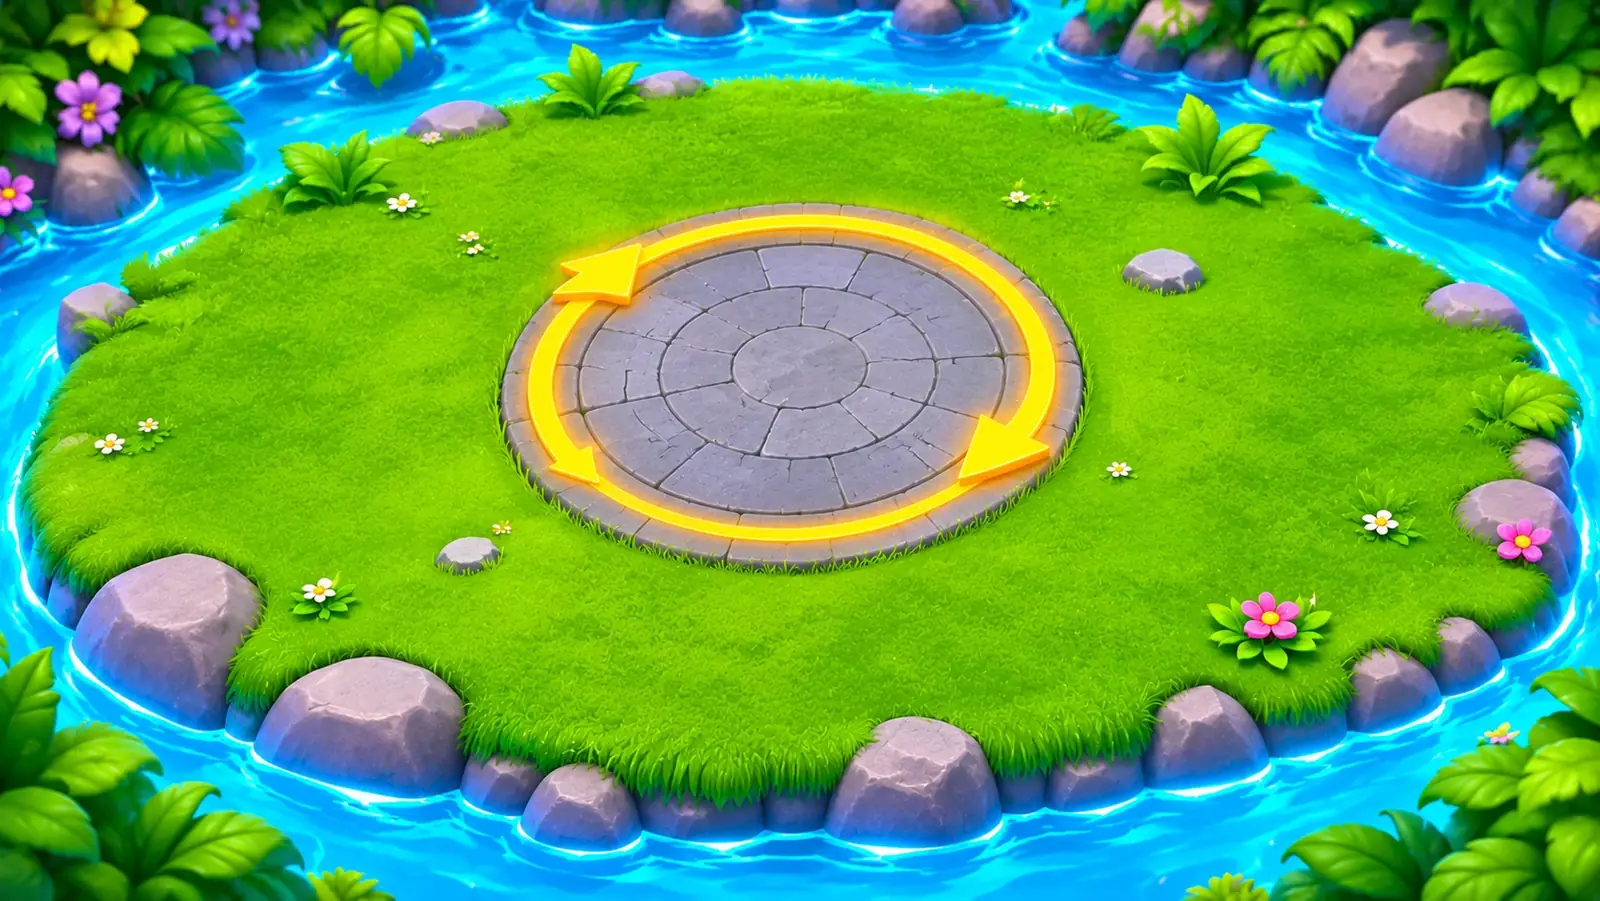
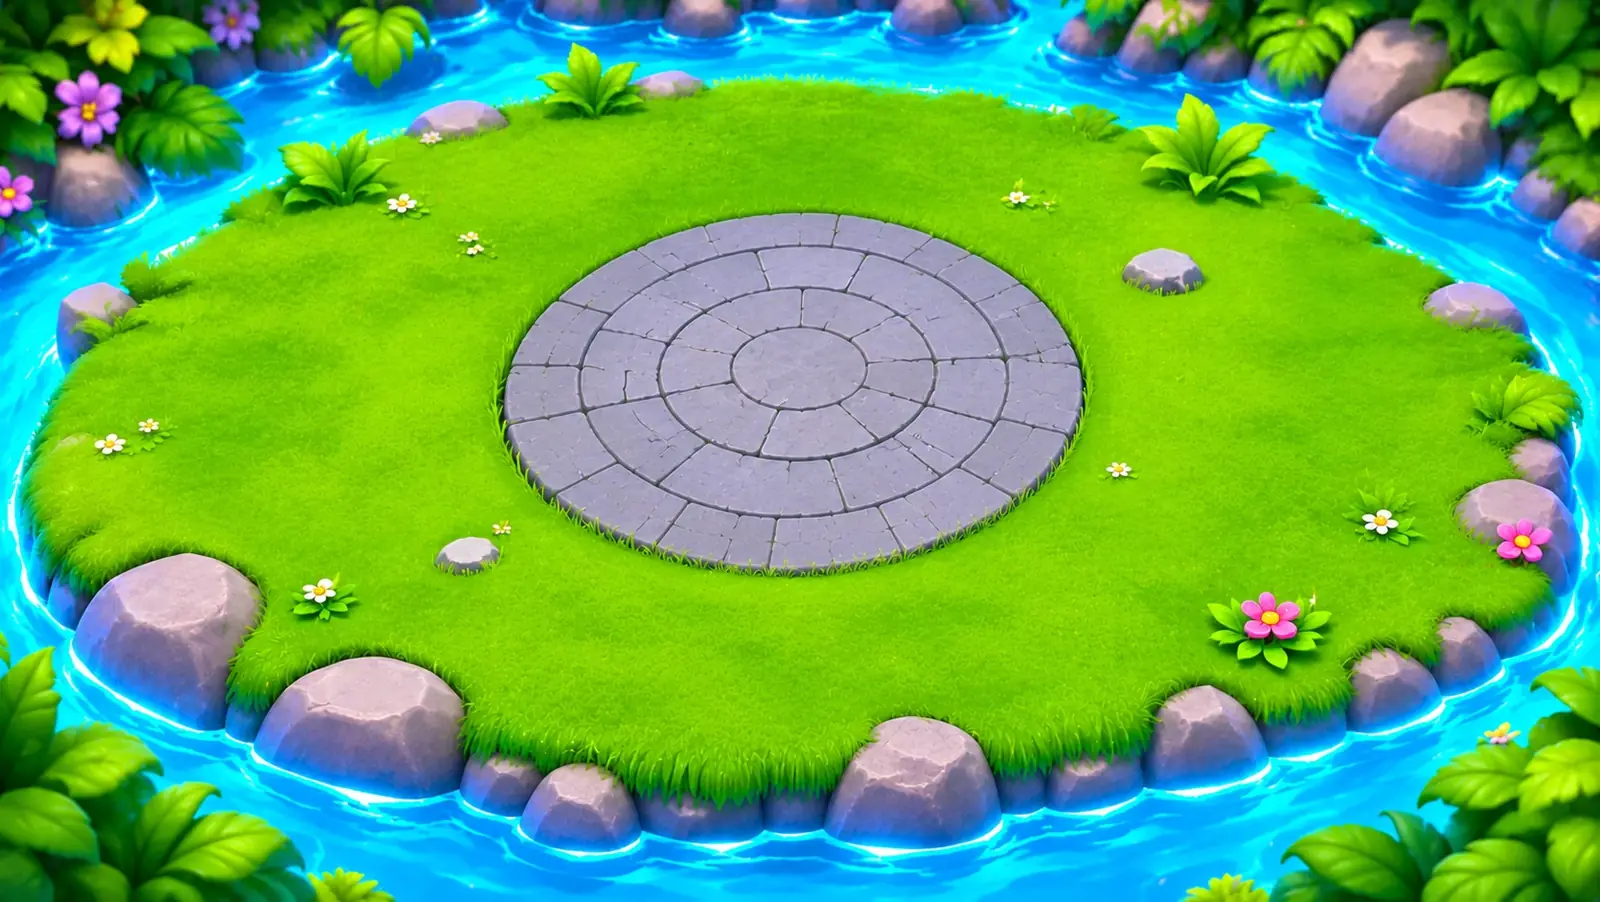
Fondo de mesa de piedra, carta de acciones más grande e iconos de acción al lado
Claude-Session: https://claude.ai/code/session_01AQDLLu62yTPg7Nhkzz2zXp

diff --git a/js/app.js b/js/app.js
@@ -205,7 +205,7 @@
       const p = S.players[(me + k) % n];
       // Repartidos en arco alrededor de la mesa, de izquierda a derecha por arriba.
       const a = Math.PI - spread + (k * (Math.PI + 2 * spread)) / n;
-      const x = 50 + Math.cos(a) * (short ? 37 : 41);
+      const x = 50 + Math.cos(a) * (short ? 31 : 41);
       const y = cy + Math.sin(a) * ry;
       const pickable = picking && p.status === "alive";
       const seat = h(pickable ? "button" : "div", {
@@ -283,14 +283,15 @@
   function renderActions(me) {
     const myTurn = myTurnNow();
     const acts = myTurn ? B.availableActions(S, me) : [];
-    const card = $("actionCard");
-    card.classList.toggle("active", myTurn);
-    card.querySelectorAll(".ac-row").forEach((row) => {
-      const k = row.dataset.act;
+    $("actionCard").classList.toggle("active", myTurn);
+    $("actIcons").classList.toggle("active", myTurn);
+    document.querySelectorAll(".act-icon").forEach((btn) => {
+      const k = btn.dataset.act;
       const a = acts.find((x) => x.key === k);
       const ok = k === "habilidad" ? acts.some((x) => x.role && x.ok) : !!(a && a.ok);
-      row.classList.toggle("ok", myTurn && ok);
-      row.classList.toggle("off", myTurn && !ok);
+      btn.classList.toggle("ok", myTurn && ok);
+      btn.classList.toggle("off", !myTurn || !ok);
+      btn.title = myTurn && !ok && a ? a.reason : btn.getAttribute("aria-label");
     });
   }
 
@@ -301,12 +302,13 @@
     ev.classList.remove("flash", "warn"); void ev.offsetWidth; ev.classList.add("warn");
   }
 
-  function onActionCard(e) {
-    if (!S) return;
-    const row = e.target.closest(".ac-row");
-    if (!row || !myTurnNow()) { zoom("assets/guia/acciones.webp"); return; }
+  // Iconos de acción junto a la carta.
+  function onActionIcon(e) {
+    const btn = e.target.closest(".act-icon");
+    if (!btn || !S) return;
+    if (!myTurnNow()) { flashHint("⏳ Espera tu turno"); return; }
     const me = viewer();
-    const k = row.dataset.act;
+    const k = btn.dataset.act;
     const acts = B.availableActions(S, me);
     if (k === "habilidad") {
       const hand = document.querySelector(".hand5");
@@ -709,7 +711,7 @@
 
   const SLIDES = [
     { tab: "Personajes", img: "assets/guia/personajes.webp" },
-    { tab: "Acciones", img: "assets/guia/acciones.webp" },
+    { tab: "Acciones", img: "assets/ui/acciones.webp" },
     { tab: "🌳", img: IMG.tronco },
     { tab: "🌻", img: IMG.girasol },
     { tab: "🌿", img: IMG.enredadera },
@@ -775,7 +777,8 @@
   // ---------- arranque ----------
 
   $("startBtn").onclick = () => start(false);
-  $("actionCard").addEventListener("click", onActionCard);
+  $("actionCard").addEventListener("click", () => zoom("assets/ui/acciones.webp"));
+  $("actIcons").addEventListener("click", onActionIcon);
   $("charsBtn").onclick = () => zoom("assets/guia/personajes.webp");
   $("localBtn").onclick = () => { show("setup"); renderSetup(); };
   $("backHome").onclick = () => show("home");

diff --git a/css/style.css b/css/style.css
@@ -491,3 +491,33 @@ button:focus-visible, input:focus-visible { outline: 3px solid var(--gold); outl
   .me-water { font-size: 1rem; }
   .me-water img { height: 20px; }
 }
+
+/* ---------- carta de acciones + iconos al lado ---------- */
+.side { flex-direction: row; align-items: flex-end; gap: 6px; }
+.action-card { padding: 0; border: 0; background: none; width: clamp(120px, min(34vw, 30dvh), 250px); cursor: zoom-in; }
+.action-card img { box-shadow: none; filter: drop-shadow(0 6px 10px rgba(0, 0, 0, .4)); border-radius: 0; }
+.action-card.active img { box-shadow: none; filter: drop-shadow(0 0 6px rgba(255, 215, 80, .95)) drop-shadow(0 6px 10px rgba(0, 0, 0, .4)); }
+.act-icons { display: flex; flex-direction: column; gap: 6px; padding-bottom: 4px; }
+.act-icon {
+  position: relative; width: clamp(46px, 7.5dvh, 66px); aspect-ratio: 1; padding: 4px;
+  border: 0; background: none; display: grid; place-items: center;
+  transition: transform .12s, filter .12s;
+}
+.act-icon img { max-width: 100%; max-height: 100%; object-fit: contain; filter: drop-shadow(0 3px 3px rgba(0, 0, 0, .35)); }
+.act-icon i {
+  position: absolute; left: -2px; top: -2px; font-style: normal; font-size: .7rem; line-height: 1;
+  background: #fff; color: var(--navy); border-radius: 99px; padding: 2px 5px; box-shadow: 0 1px 3px rgba(0, 0, 0, .3);
+}
+.act-icon.off { filter: grayscale(1) opacity(.5); }
+.act-icon.ok { animation: iconpulse 1.6s ease-in-out infinite; }
+.act-icon.ok:active { transform: scale(.9); }
+@keyframes iconpulse { 50% { transform: scale(1.08); filter: drop-shadow(0 0 8px rgba(255, 215, 80, .95)); } }
+@media (orientation: portrait) {
+  .action-card { width: clamp(104px, 30vw, 160px); }
+  .act-icon { width: clamp(40px, 11vw, 56px); }
+  .mine .pcard { width: clamp(42px, calc((100vw - 30vw - 11vw - 60px) / 3), 92px); }
+}
+@media (orientation: landscape) and (max-height: 519px) {
+  .action-card { width: clamp(80px, 28dvh, 120px); }
+  .act-icon { width: clamp(34px, 11dvh, 46px); }
+}

diff --git a/index.html b/index.html
@@ -79,12 +79,14 @@
   <!-- Zona de abajo: carta de acciones a un lado y tu mano -->
   <div id="bottom" class="bottom">
     <div class="side">
-      <div id="actionCard" class="action-card">
-        <img src="assets/guia/acciones.webp" alt="Acciones por turno">
-        <button type="button" class="ac-row r1" data-act="refrescar" aria-label="Refrescarse: gana 1 gota"></button>
-        <button type="button" class="ac-row r2" data-act="ayuda" aria-label="Pedir ayuda a la naturaleza: toma 2 gotas"></button>
-        <button type="button" class="ac-row r3" data-act="exterminar" aria-label="Exterminar: paga 8 gotas"></button>
-        <button type="button" class="ac-row r4" data-act="habilidad" aria-label="Usar la habilidad de una planta"></button>
+      <button type="button" id="actionCard" class="action-card" aria-label="Ver la carta de acciones en grande">
+        <img src="assets/ui/acciones.webp" alt="Acciones por turno">
+      </button>
+      <div id="actIcons" class="act-icons">
+        <button type="button" class="act-icon" data-act="refrescar" aria-label="1. Refrescarse"><img src="assets/ui/gota.webp" alt=""><i>1</i></button>
+        <button type="button" class="act-icon" data-act="ayuda" aria-label="2. Pedir ayuda a la naturaleza"><img src="assets/ui/gotas2.webp" alt=""><i>2</i></button>
+        <button type="button" class="act-icon" data-act="exterminar" aria-label="3. Exterminar"><img src="assets/ui/diana.webp" alt=""><i>3</i></button>
+        <button type="button" class="act-icon" data-act="habilidad" aria-label="4. Usar la habilidad de una planta"><img src="assets/ui/habilidad.webp" alt=""><i>4</i></button>
       </div>
     </div>
     <div class="mine">
